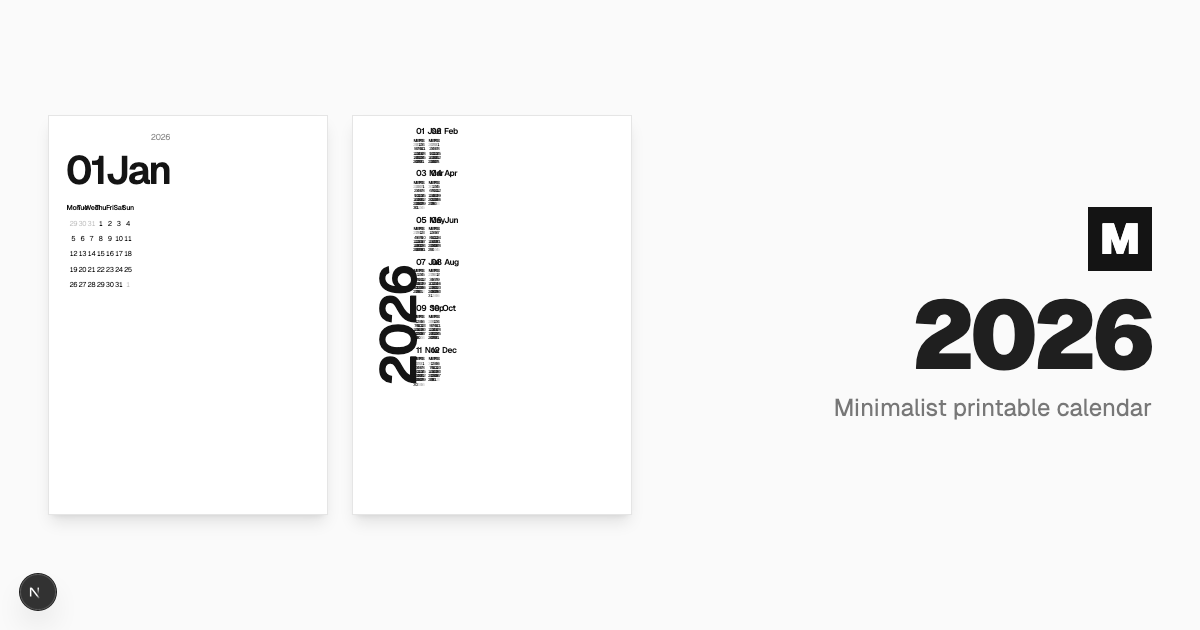
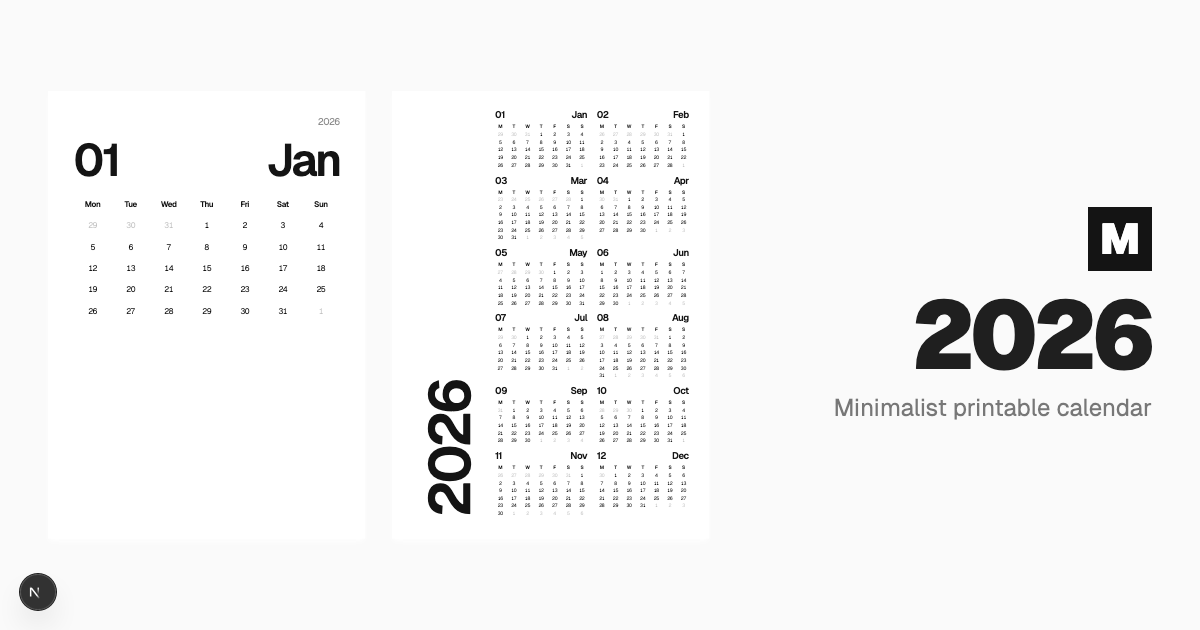
Fixes OG generation

diff --git a/apps/frontend/src/pages/og-preview.tsx b/apps/frontend/src/pages/og-preview.tsx
@@ -6,6 +6,7 @@ import {
   SimpleYearCalendar,
 } from "../components/calendar/themes/Simple";
 import { Logo } from "../components/Logo";
+import { ScaledPreview } from "../components/ScaledPreview";
 
 interface Props {
   year: number;
@@ -22,29 +23,23 @@ export default function OGPreview({ year }: Props) {
     >
       {/* Left side - Calendar previews */}
       <div className="flex gap-6">
-        {/* Month calendar preview */}
-        <div className="h-[400px] w-[280px] overflow-hidden rounded-sm border border-black/10 bg-white shadow-lg">
-          <div className="origin-top-left scale-[0.35]">
-            <SimpleMonthCalendar
-              date={date}
-              variant="portrait"
-              size="a4"
-              weekStartsOn={1}
-            />
-          </div>
-        </div>
+        <ScaledPreview format="a4" variant="portrait" className="shadow-lg">
+          <SimpleMonthCalendar
+            date={date}
+            variant="portrait"
+            size="a4"
+            weekStartsOn={1}
+          />
+        </ScaledPreview>
 
-        {/* Year calendar preview */}
-        <div className="h-[400px] w-[280px] overflow-hidden rounded-sm border border-black/10 bg-white shadow-lg">
-          <div className="origin-top-left scale-[0.35]">
-            <SimpleYearCalendar
-              date={date}
-              variant="portrait"
-              size="a4"
-              weekStartsOn={1}
-            />
-          </div>
-        </div>
+        <ScaledPreview format="a4" variant="portrait" className="shadow-lg">
+          <SimpleYearCalendar
+            date={date}
+            variant="portrait"
+            size="a4"
+            weekStartsOn={1}
+          />
+        </ScaledPreview>
       </div>
 
       {/* Right side - Branding */}

diff --git a/apps/generator/src/index.ts b/apps/generator/src/index.ts
@@ -12,6 +12,7 @@ import { SupportedLocale, SupportedLocales, Theme } from '@minimal/config';
 const args = process.argv.slice(2);
 const WITH_UPLOAD = args.includes('--with-upload');
 const UPLOAD_ONLY = args.includes('--upload-only');
+const OG_ONLY = args.includes('--og-only');
 
 // R2 Configuration
 const R2_ACCOUNT_ID = process.env.R2_ACCOUNT_ID || '';
@@ -368,6 +369,7 @@ const generateOGImages = async (browser: Browser, years: number[], themes: Theme
 
       const url = `http://localhost:3000/og-preview?year=${year}&theme=${theme}`;
       await page.goto(url, { waitUntil: 'networkidle0' });
+      await page.evaluate(() => document.fonts.ready);
 
       await page.screenshot({
         path: path.join(ogDir, `calendar-${year}.png`),
@@ -423,7 +425,7 @@ async function generateProducts() {
   const themes: Theme[] = ['simple'];
   const weekStartOptions: WeekStartsOn[] = [1, 7]; // Monday and Sunday
 
-  console.log(`Mode: ${UPLOAD_ONLY ? 'upload-only' : WITH_UPLOAD ? 'generate + upload' : 'generate only'}`);
+  console.log(`Mode: ${UPLOAD_ONLY ? 'upload-only' : OG_ONLY ? 'og-only' : WITH_UPLOAD ? 'generate + upload' : 'generate only'}`);
 
   // Upload-only mode: skip generation
   if (UPLOAD_ONLY) {
@@ -438,6 +440,12 @@ async function generateProducts() {
   const ogBrowser = await puppeteer.launch({ headless: true });
   await generateOGImages(ogBrowser, years, themes);
   await ogBrowser.close();
+
+  // OG-only mode: skip calendar generation
+  if (OG_ONLY) {
+    console.log('OG images generated!');
+    return;
+  }
 
   for (const theme of themes) {
     // Clean previous output
